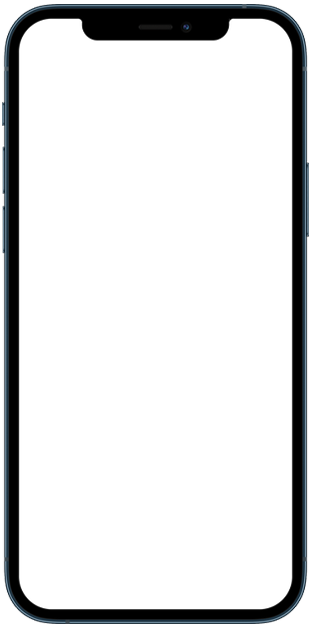
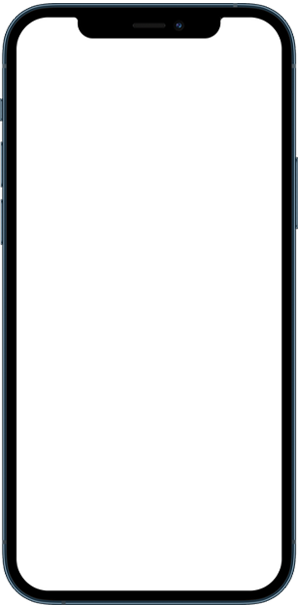
atualizaçao

Changed region(s): [[0.0, 0.0, 1.0, 1.0], [0.1812, 0.9688, 0.8154, 1.0], [0.302, 0.0625, 0.6946, 0.0938]]

diff --git a/estilos/style.css b/estilos/style.css
@@ -28,23 +28,25 @@ section#celular {
     left: 50%;
     transform: translate(-50%, -50%);
 
-    width: 311px;
-    height: 627px;
-    background: url("../img/frame-iphone.png");  
+    width: 298px;
+    height: 608px;
+    background: url("../img/frame-iphone.png"); 
+
+    margin-top: 5px; 
 }
 
 iframe#home {
     position: relative;
-    top: 19px;
-    left: 18px;
+    top: 14px;
+    left: 13px;
 
-    width: 275px;
-    height: 591px;
+    width: 273px;
+    height: 580px;
     border-radius: 35px;
 } 
 
 section#redes {
-    text-align: right;
+    text-align: ;
 }
 
 section#redes img {
